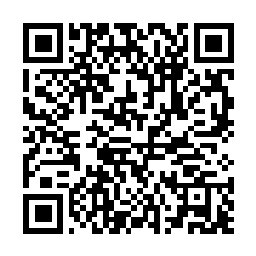
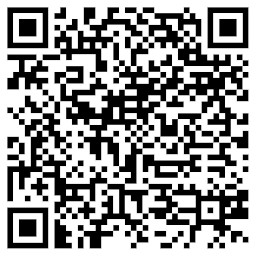
update lnurl

diff --git a/content.ru/docs/Theory/privacy/coinjoin.md b/content.ru/docs/Theory/privacy/coinjoin.md
@@ -1419,7 +1419,7 @@ _Видео [Tutoriel Samouraï par JohnOnChain (Vie privée)](https://www.youtu
 Поддержать переводчика можно, отправив немного сат в сети Лайтнинг:
 
 {{% image "/img/btclinux-ln-qr.jpg" %}}
[2 lines of base64/hex data omitted]
 {{% /image %}}
 
 [^1]: Термин "Doxxic" происходит от игры слов "[доксинг](https://ru.wikipedia.org/wiki/%D0%94%D0%BE%D0%BA%D1%81%D0%B8%D0%BD%D0%B3)" и "toxic" — токсичный. Он подразумевает что-то вредное и раскрывающее вашу личность.

diff --git a/content.ru/docs/Theory/privacy/oxt/oxt-1.md b/content.ru/docs/Theory/privacy/oxt/oxt-1.md
@@ -301,7 +301,7 @@ _Эвристика наибольшей суммы выхода ([TxID](https:/
 Поддержать переводчика можно, отправив немного сат в сети Лайтнинг:
 
 {{% image "/img/btclinux-ln-qr.jpg" %}}
-_LNURL1DP68GURN8GHJ7MRW9E6XJURN9UH8WETVDSKKKMN0WAHZ7MRWW4EXCUP0X9UX2VENXDJN2CTRXSUN2VE3XGCRQPNAPC6_
[1 lines of base64/hex data omitted]
 {{% /image %}}
 
 {{< expand "Оглавление" "..." >}}

diff --git a/content.ru/docs/Theory/privacy/oxt/oxt-2.md b/content.ru/docs/Theory/privacy/oxt/oxt-2.md
@@ -267,7 +267,7 @@ _[Пример](https://oxt.me/transaction/50766212c4eff1a8e1c74f16ba2480ec076b8
 Поддержать переводчика можно, отправив немного сат в сети Лайтнинг:
 
 {{% image "/img/btclinux-ln-qr.jpg" %}}
-_LNURL1DP68GURN8GHJ7MRW9E6XJURN9UH8WETVDSKKKMN0WAHZ7MRWW4EXCUP0X9UX2VENXDJN2CTRXSUN2VE3XGCRQPNAPC6_
[1 lines of base64/hex data omitted]
 {{% /image %}}
 
 {{< expand "Оглавление" "..." >}}

diff --git a/content.ru/docs/Theory/privacy/oxt/oxt-3.md b/content.ru/docs/Theory/privacy/oxt/oxt-3.md
@@ -219,7 +219,7 @@ CoinJoin с равными выходами - это совместные тра
 Поддержать переводчика можно, отправив немного сат в сети Лайтнинг:
 
 {{% image "/img/btclinux-ln-qr.jpg" %}}
-_LNURL1DP68GURN8GHJ7MRW9E6XJURN9UH8WETVDSKKKMN0WAHZ7MRWW4EXCUP0X9UX2VENXDJN2CTRXSUN2VE3XGCRQPNAPC6_
[1 lines of base64/hex data omitted]
 {{% /image %}}
 
 {{< expand "Оглавление" "..." >}}

diff --git a/content.ru/docs/Theory/privacy/oxt/oxt-4.md b/content.ru/docs/Theory/privacy/oxt/oxt-4.md
@@ -256,7 +256,7 @@ _— Исследовательская команда OXT_
 Поддержать переводчика можно, отправив немного сат в сети Лайтнинг:
 
 {{% image "/img/btclinux-ln-qr.jpg" %}}
-_LNURL1DP68GURN8GHJ7MRW9E6XJURN9UH8WETVDSKKKMN0WAHZ7MRWW4EXCUP0X9UX2VENXDJN2CTRXSUN2VE3XGCRQPNAPC6_
[1 lines of base64/hex data omitted]
 {{% /image %}}
 
 {{< expand "Оглавление" "..." >}}

diff --git a/content.ru/docs/Practice/lightning/mutiny.md b/content.ru/docs/Practice/lightning/mutiny.md
@@ -205,5 +205,5 @@ Mutiny Gifts — это функция для пользователей `Mutiny
 Поддержать переводчика можно, отправив немного сат в сети Лайтнинг:
 
 {{% image "/img/btclinux-ln-qr.jpg" %}}
[2 lines of base64/hex data omitted]
 {{% /image %}}

diff --git a/content.ru/docs/Practice/privacy/dojo/dojo-4.md b/content.ru/docs/Practice/privacy/dojo/dojo-4.md
@@ -341,5 +341,5 @@ Dojo Maintenance Tool, или "DMT", доступен только через To
 Поддержать переводчика можно, отправив немного сат в сети Лайтнинг:
 
 {{% image "/img/btclinux-ln-qr.jpg" %}}
[2 lines of base64/hex data omitted]
 {{% /image %}}

diff --git a/content.ru/docs/Practice/privacy/grapheneos.md b/content.ru/docs/Practice/privacy/grapheneos.md
@@ -400,5 +400,5 @@ GrapheneOS - это кроличья нора, в которой можно пр
 Поддержать переводчика можно, отправив немного сат в сети Лайтнинг:
 
 {{% image "/img/btclinux-ln-qr.jpg" %}}
[2 lines of base64/hex data omitted]
 {{% /image %}}

diff --git a/content.ru/docs/Theory/privacy/bip47-the-ugly-duckling.md b/content.ru/docs/Theory/privacy/bip47-the-ugly-duckling.md
@@ -940,5 +940,5 @@ _Источник: [Многоразовые платежные коды для 
 Поддержать переводчика можно, отправив немного сат в сети Лайтнинг:
 
 {{% image "/img/btclinux-ln-qr.jpg" %}}
-_LNURL1DP68GURN8GHJ7MRW9E6XJURN9UH8WETVDSKKKMN0WAHZ7MRWW4EXCUP0X9UX2VENXDJN2CTRXSUN2VE3XGCRQPNAPC6_
[1 lines of base64/hex data omitted]
 {{% /image %}}

diff --git a/content.ru/docs/Theory/protocol/segwit.md b/content.ru/docs/Theory/protocol/segwit.md
@@ -300,5 +300,5 @@ SegWit существует уже так давно, что вряд ли вы 
 Поддержать переводчика можно, отправив немного сат в сети Лайтнинг:
 
 {{% image "/img/btclinux-ln-qr.jpg" %}}
-_LNURL1DP68GURN8GHJ7MRW9E6XJURN9UH8WETVDSKKKMN0WAHZ7MRWW4EXCUP0X9UX2VENXDJN2CTRXSUN2VE3XGCRQPNAPC6_
[1 lines of base64/hex data omitted]
 {{% /image %}}
